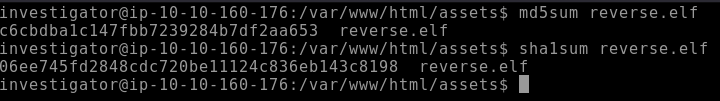
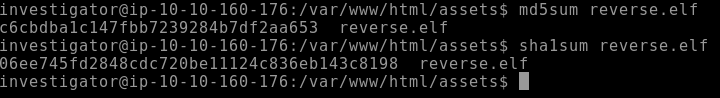
Anals

diff --git a/README.md b/README.md
@@ -114,7 +114,7 @@ Before we investigate the reverse.elf file further, there are several other usef
 * Let's find out the **MD5** and **SHA1** checksum of our suspect binary.
 
 <p align="center">
-  <img width="800" height="130" src="./img/9.png">
+  <img width="800" height="100" src="./img/9.png">
 </p>
 
 * With the checksum generated, we can use it to search for more information on malware analysis sites. A well-known one called [VirusTotal](https://www.virustotal.com.com/hex-to-text.php.). 
@@ -215,6 +215,39 @@ getent group (group id) - Tist users by group id
 
 * The sudoers file requires root (or sudo) access to view.
 
-## Sensitive directories and Files
+## Sensitive Directories and Files
 
-Working...
+To continue our investigation of the system's users and groups, we must also examine each user's home directory, files, history, and custom settings.
+
+### Home Directories
+
+* The `/home` repository is normally where each user's folder on the system is located. In it we can find personalized settings for each one. This is not always the directory, looking in the `/etc/passwd` file, we can see each location of each user's home folder. On our host we have the folders below.
+
+<p align="center">
+  <img width="800" height="50" src="./img/18.png">
+</p>
+
+### Hidden Files
+
+* A way to hide files on the system, hiding folders/files. Additionally, sensitive system settings are typically stored. To display hidden files, we can list them with `ls -a`. We can see the hidden files/folders when they start with `.`.
+
+  * **.bash_history**: This file contains a user's command history and can be used to show previous commands executed by the user.
+  * **.bashrc** and **.profile**: These are configuration files used to customise a user's Bash shell sessions and login environment, respectively.
+
+<p align="center">
+  <img width="800" height="50" src="./img/19.png">
+</p>
+
+### SSH Key
+
+* The hidden `.ssh` folder is responsible for storing the public/private key for the SSH connection to the system. Stealing the private key can allow the attacker to reconnect to the host without any difficulty.
+* If a malicious user gains unauthorised access to a system and wants to persistently access another user's account by adding their public key to the `authorized_keys` file.
+
+<p align="center">
+  <img width="800" height="200" src="./img/20.png">
+</p>
+
+> [!NOTE]
+In this case, we can see something suspicious, where within the ssh config of the user Jane, there is another public key with an unknown user, **backdoor**.
+
+## Binary Bypass Permissions 
